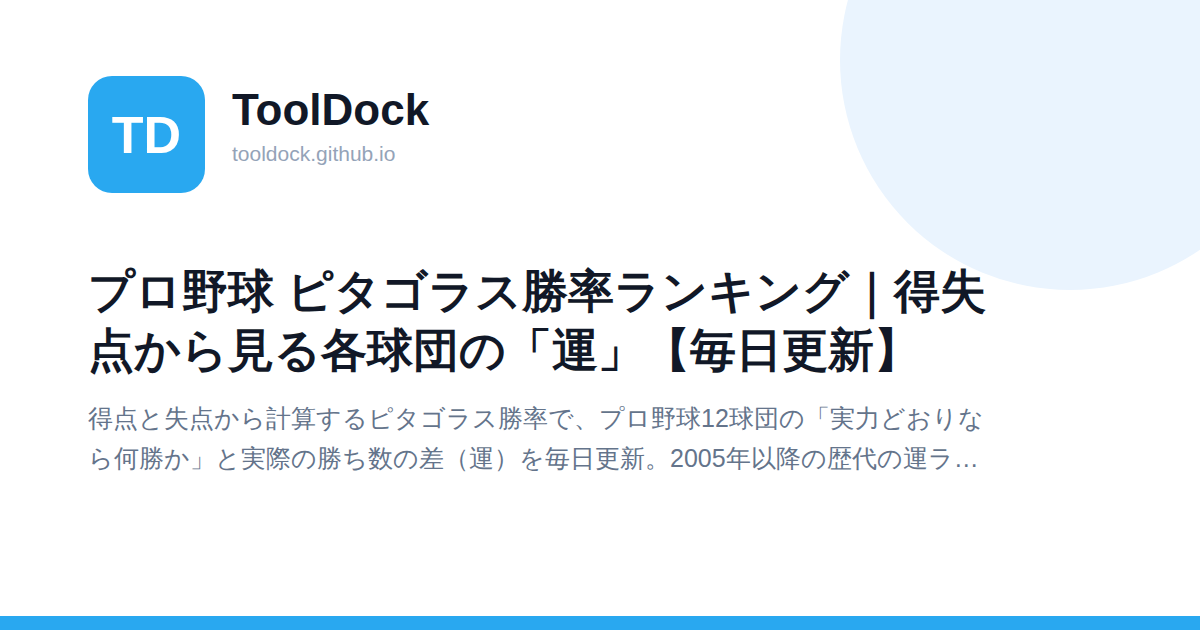
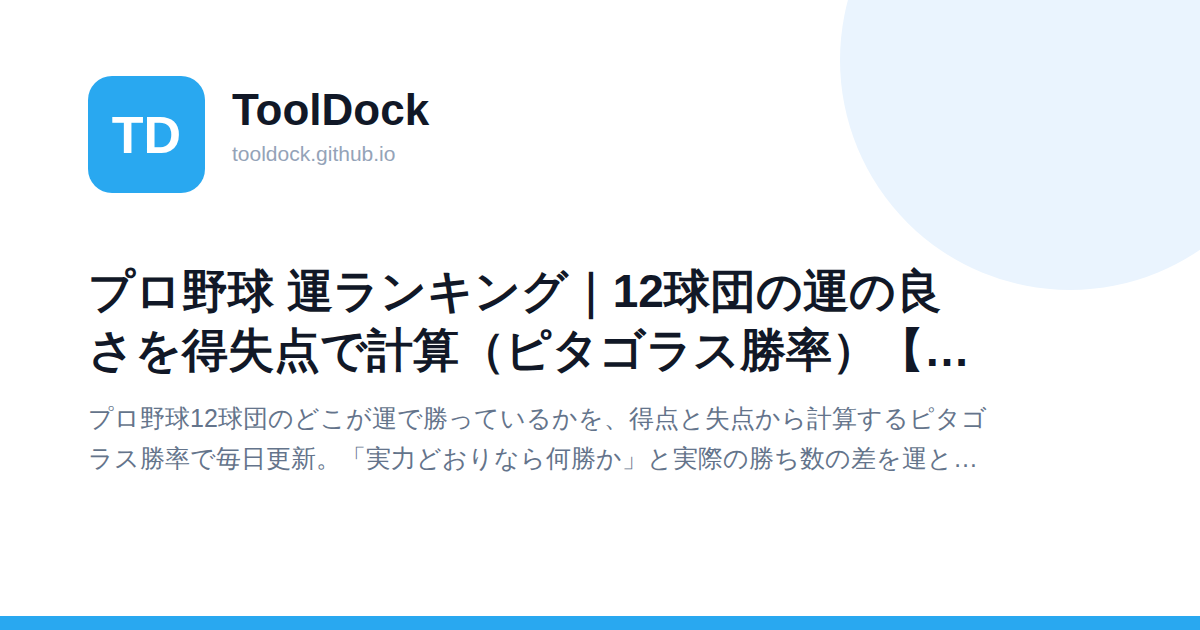
ピタゴラス勝率のページのタイトルを「運ランキング」に寄せる
URL（/pythagorean/）はそのまま。タイトル・見出し・説明文・OGP画像を「運」中心にし、
「ピタゴラス勝率」は括弧で残す。

Claude-Session: https://claude.ai/code/session_01SKh1jhAp32CEmbZCaaEmgk

Changed region(s): [[0.0617, 0.4222, 0.8325, 0.6032], [0.0617, 0.6333, 0.8325, 0.754]]

diff --git a/pythagorean/index.html b/pythagorean/index.html
@@ -6,8 +6,8 @@
 
 <!-- このファイルは npb/template_pythagorean.html から npb/build_pythagorean.py が生成する。
      pythagorean/index.html を直接書き換えても、次の自動更新で消える -->
-<title>プロ野球 ピタゴラス勝率ランキング｜得失点から見る各球団の「運」【2026年・毎日更新】</title>
-<meta name="description" content="得点と失点から計算するピタゴラス勝率で、プロ野球12球団の「実力どおりなら何勝か」と実際の勝ち数の差（運）を毎日更新。2026年はセ・リーグはヤクルト（+5.6勝）が最も運が良く、中日（−8.6勝）が最も運が悪い。パ・リーグはオリックス（+8.9勝）が最も運が良く、ソフトバンク（−5.5勝）が最も運が悪い。2005年以降の歴代の運ランキングと、ピタゴラス勝率の計算機もあります。">
+<title>プロ野球 運ランキング｜12球団の運の良さを得失点で計算（ピタゴラス勝率）【2026年・毎日更新】</title>
+<meta name="description" content="プロ野球12球団のどこが運で勝っているかを、得点と失点から計算するピタゴラス勝率で毎日更新。2026年はセ・リーグはヤクルト（+5.6勝）が最も運が良く、中日（−8.6勝）が最も運が悪い。パ・リーグはオリックス（+8.9勝）が最も運が良く、ソフトバンク（−5.5勝）が最も運が悪い。2005年以降の歴代の運ランキングと、ピタゴラス勝率の計算機もあります。">
 <link rel="canonical" href="https://tooldock.github.io/pythagorean/">
 
 <script> const CURRENT_TOOL = "pythagorean"; </script>
@@ -18,7 +18,7 @@
 <!-- Google AdSense -->
 <script async src="https://pagead2.googlesyndication.com/pagead/js/adsbygoogle.js?client=ca-pub-8349615939902537" crossorigin="anonymous"></script>
 
-<meta name="keywords" content="ピタゴラス勝率,ピタゴラス勝率 計算,得失点差,プロ野球,運,セイバーメトリクス,セ・リーグ,パ・リーグ">
+<meta name="keywords" content="プロ野球 運,運ランキング,運が良い球団,ピタゴラス勝率,ピタゴラス勝率 計算,得失点差,セイバーメトリクス,セ・リーグ,パ・リーグ">
 
 <style>
 *{ box-sizing:border-box; }
@@ -139,13 +139,13 @@ footer.disclaimer{ margin-top:22px; font-size:0.82rem; color:var(--ink-mute); }
 <div class="page-wrapper">
 
 <header>
-    <h1>プロ野球 ピタゴラス勝率ランキング</h1>
-    <p>得点と失点から「実力どおりなら何勝か」を計算し、実際の勝ち数との差（運）を球団ごとに並べます</p>
+    <h1>プロ野球 運ランキング（ピタゴラス勝率）</h1>
+    <p>得点と失点から「実力どおりなら何勝か」を計算し、実際の勝ち数との差で、どの球団が運で勝っているかを並べます</p>
 </header>
 
 <div class="container">
 
-<p class="stamp"><span>成績：<strong>2026年9月28日終了時点</strong></span><span>最終更新：2026年9月29日 9:11</span></p>
+<p class="stamp"><span>成績：<strong>2026年9月28日終了時点</strong></span><span>最終更新：2026年9月29日 12:45</span></p>
 <p class="lead">「運」は、実際の勝ち数から、得点と失点で見込まれる勝ち数（ピタゴラス勝率 × 勝敗の数）を引いたものです。プラスなら得失点の割に勝てている（接戦に強い・運が良い）、マイナスなら得失点の割に負けている球団です。</p>
 
 <div class="bar-ctl">

diff --git a/npb/template_pythagorean.html b/npb/template_pythagorean.html
@@ -6,7 +6,7 @@
 
 <!-- このファイルは npb/template_pythagorean.html から npb/build_pythagorean.py が生成する。
      pythagorean/index.html を直接書き換えても、次の自動更新で消える -->
-<title>プロ野球 ピタゴラス勝率ランキング｜得失点から見る各球団の「運」【{{YEAR}}年・毎日更新】</title>
+<title>プロ野球 運ランキング｜12球団の運の良さを得失点で計算（ピタゴラス勝率）【{{YEAR}}年・毎日更新】</title>
 <meta name="description" content="{{DESCRIPTION}}">
 <link rel="canonical" href="https://tooldock.github.io/pythagorean/">
 
@@ -18,7 +18,7 @@
 <!-- Google AdSense -->
 <script async src="https://pagead2.googlesyndication.com/pagead/js/adsbygoogle.js?client=ca-pub-8349615939902537" crossorigin="anonymous"></script>
 
-<meta name="keywords" content="ピタゴラス勝率,ピタゴラス勝率 計算,得失点差,プロ野球,運,セイバーメトリクス,セ・リーグ,パ・リーグ">
+<meta name="keywords" content="プロ野球 運,運ランキング,運が良い球団,ピタゴラス勝率,ピタゴラス勝率 計算,得失点差,セイバーメトリクス,セ・リーグ,パ・リーグ">
 
 <style>
 *{ box-sizing:border-box; }
@@ -139,8 +139,8 @@ footer.disclaimer{ margin-top:22px; font-size:0.82rem; color:var(--ink-mute); }
 <div class="page-wrapper">
 
 <header>
-    <h1>プロ野球 ピタゴラス勝率ランキング</h1>
-    <p>得点と失点から「実力どおりなら何勝か」を計算し、実際の勝ち数との差（運）を球団ごとに並べます</p>
+    <h1>プロ野球 運ランキング（ピタゴラス勝率）</h1>
+    <p>得点と失点から「実力どおりなら何勝か」を計算し、実際の勝ち数との差で、どの球団が運で勝っているかを並べます</p>
 </header>
 
 <div class="container">

diff --git a/js/tool-data.js b/js/tool-data.js
@@ -466,10 +466,10 @@ window.TOOLS = [
 
   {
     id: "pythagorean",
-    title: "プロ野球 ピタゴラス勝率ランキング",
-    desc: "得点と失点から「実力どおりなら何勝か」を計算し、実際の勝ち数との差（運）を球団ごとに毎日更新で並べます。",
-    seoTitle: "プロ野球 ピタゴラス勝率ランキング｜得失点から見る各球団の「運」【毎日更新】",
-    seoDesc: "得点と失点から計算するピタゴラス勝率で、プロ野球12球団の「実力どおりなら何勝か」と実際の勝ち数の差（運）を毎日更新。2005年以降の歴代の運ランキングと、ピタゴラス勝率の計算機もあります。",
+    title: "プロ野球 運ランキング（ピタゴラス勝率）",
+    desc: "得点と失点から「実力どおりなら何勝か」を計算し、どの球団が運で勝っているかを毎日更新で並べます。",
+    seoTitle: "プロ野球 運ランキング｜12球団の運の良さを得失点で計算（ピタゴラス勝率）【毎日更新】",
+    seoDesc: "プロ野球12球団のどこが運で勝っているかを、得点と失点から計算するピタゴラス勝率で毎日更新。「実力どおりなら何勝か」と実際の勝ち数の差を運として並べ、2005年以降の歴代の運が良かった・悪かった球団と、ピタゴラス勝率の計算機も載せています。",
     themeColor: "#111827",
     category: "baseball",
     url: "/pythagorean/"

diff --git a/index.html b/index.html
@@ -199,7 +199,7 @@ ToolDockは、ブラウザだけで使える無料のWebツールを集めたサ
     <li><a href="/war/">WAR計算ツール（セイバーメトリクス計算機）</a></li>
     <li><a href="/saber/">プロ野球 セイバーメトリクス ランキング</a></li>
     <li><a href="/draft/">ドラフト答え合わせ</a></li>
-    <li><a href="/pythagorean/">プロ野球 ピタゴラス勝率ランキング</a></li>
+    <li><a href="/pythagorean/">プロ野球 運ランキング（ピタゴラス勝率）</a></li>
     <li><a href="/player/">プロ野球 選手一覧</a></li>
     <li><a href="/milestone/">プロ野球 記録達成カウントダウン</a></li>
   </ul>

diff --git a/npb/build_pythagorean.py b/npb/build_pythagorean.py
@@ -1,4 +1,4 @@
-"""プロ野球 ピタゴラス勝率ランキング（/pythagorean/）を作る。
+"""プロ野球 運ランキング（ピタゴラス勝率、/pythagorean/）を作る。
 
 得点と失点から「実力どおりなら何勝か」（ピタゴラス勝率 × 勝敗の数）を計算し、
 実際の勝ち数との差を「運」として球団ごとに並べる。
@@ -220,8 +220,8 @@ def render(seasons, latest, template):
                      f'{worst["name"]}（{signed(worst["luck"])}勝）が最も運が悪い')
     ly, lt = lucky[0]
     uy, ut = unlucky[0]
-    desc = (f"得点と失点から計算するピタゴラス勝率で、プロ野球12球団の「実力どおりなら何勝か」と実際の勝ち数の差（運）を"
-            f"毎日更新。{latest}年は" + "。".join(lines) + "。"
+    desc = (f"プロ野球12球団のどこが運で勝っているかを、得点と失点から計算するピタゴラス勝率で毎日更新。"
+            f"{latest}年は" + "。".join(lines) + "。"
             f"{f['first']}年以降の歴代の運ランキングと、ピタゴラス勝率の計算機もあります。")
     options = "".join(f'<option value="{y}"{" selected" if y == latest else ""}>{y}年{"（途中）" if not seasons[y]["final"] else ""}</option>'
                       for y in sorted(seasons, reverse=True))
